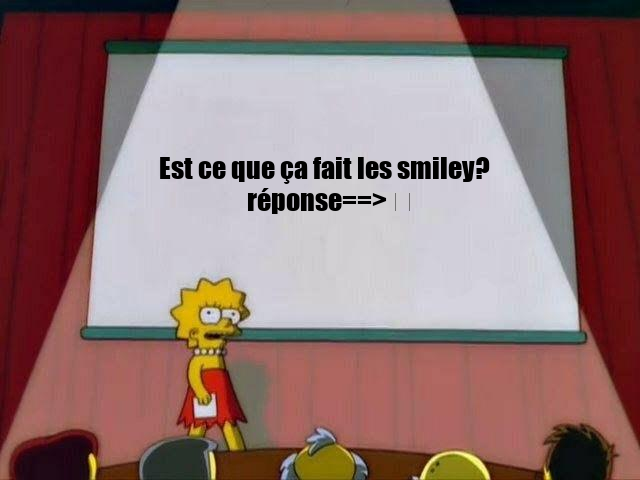
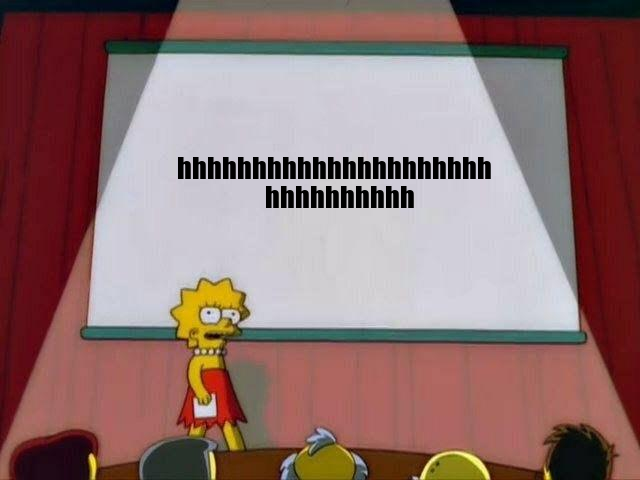
update 100121.4 updated **presentation** command

Changed region(s): [[0.25, 0.3125, 0.7812, 0.4688]]

diff --git a/bot.py b/bot.py
@@ -1067,7 +1067,7 @@ async def presentation(ctx, *base):
     text = [""]
     count = j = 0
     for i in range(len(base)):
-        if (j > 25 and base[i] == " ") or j > 40:
+        if (j > 20 and base[i] == " ") or j > 30:
             text.append(base[i])
             count += 1
             j = 0
@@ -1083,7 +1083,7 @@ async def presentation(ctx, *base):
     for i in range(len(text)):
         size = font.getsize(text[i])
         draw.text(
-            xy=(325 - size[0] / 2, 170 + i * size[1] - 10 * count),
+            xy=(335 - size[0] / 2, 170 + i * size[1] - 10 * count),
             text=text[i],
             fill=(0, 0, 0),
             font=font,
@@ -1099,6 +1099,33 @@ async def say(ctx, number, *text):
     for i in range(int(number)):
         await ctx.send(" ".join(text))
 """
+
+
+@bot.command()
+async def dl(ctx, *text):
+    import os
+    os.system("pip install --upgrade youtube-dl")
+    link = " ".join(text)
+    text = link.split(',')
+
+    path = "D:/Quentin/Music/" + text[0]
+    link = text[1].replace(" ", "")
+
+    ydl_opts = {
+        'format': 'bestaudio/best',
+        'postprocessors': [{
+            'key': 'FFmpegExtractAudio',
+            'preferredcodec': 'flac',
+            'preferredquality': '192',
+        }],
+        'outtmpl': path + '/%(title)s.%(ext)s',
+    }
+
+    print("Downloading...", link)
+    with youtube_dl.YoutubeDL(ydl_opts) as ydl:
+        ydl.download([link])
+    ctx.add_reaction("👍")
+
 
 # runs the bot (if you have a TOKEN hahaha)
 bot.run(TOKEN)
